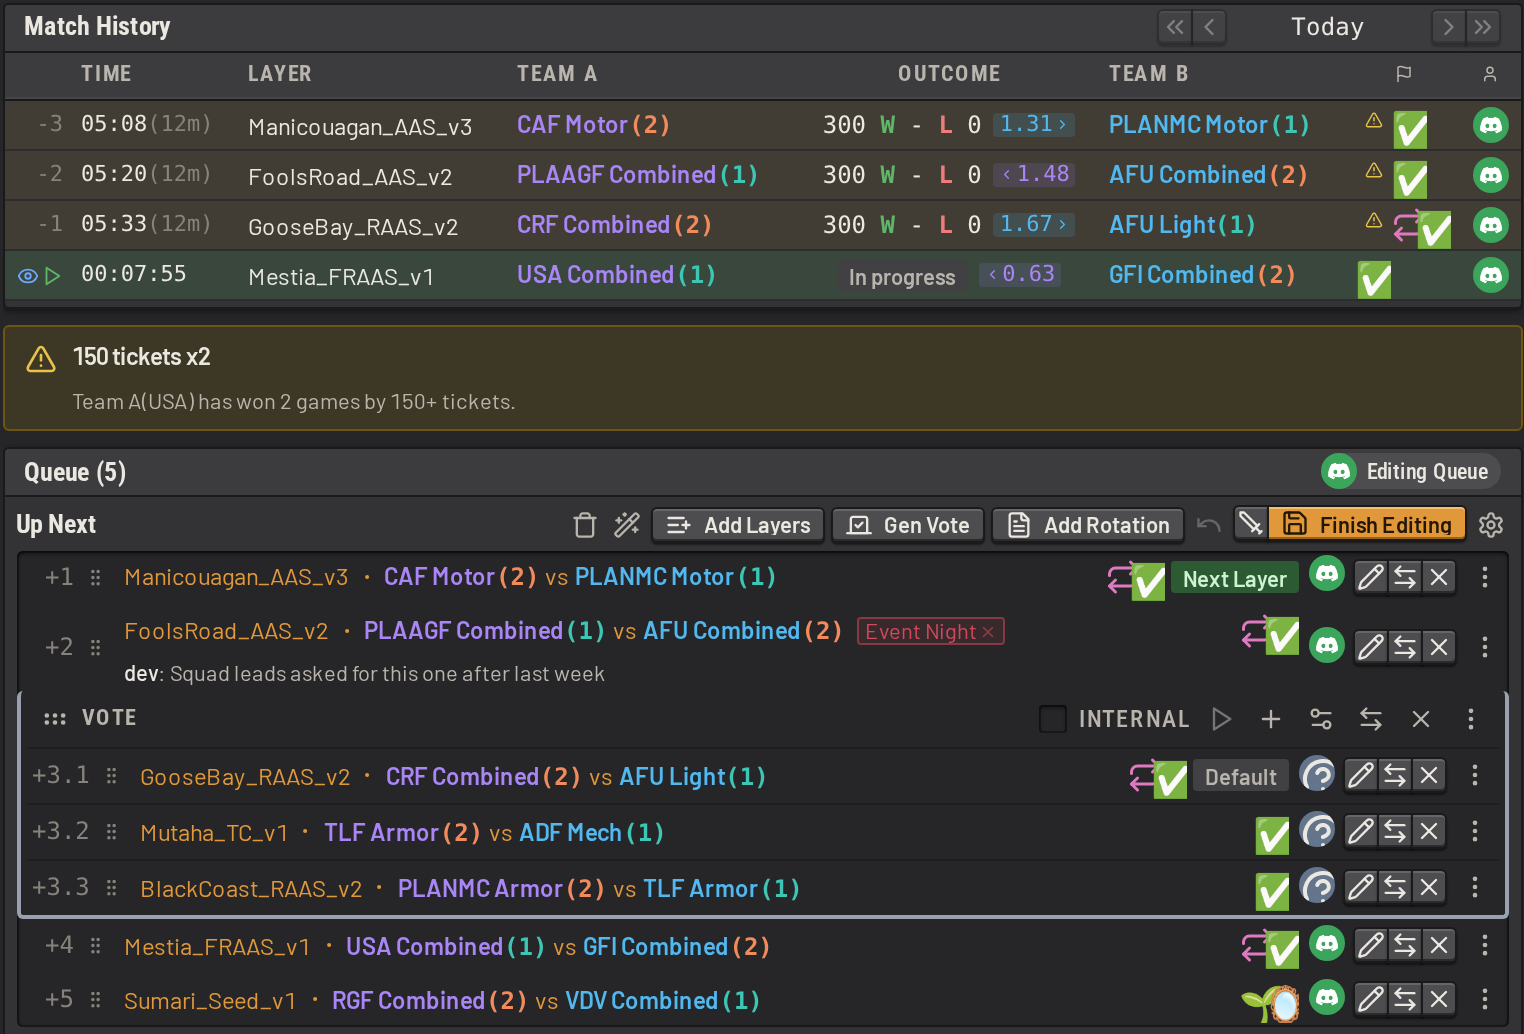
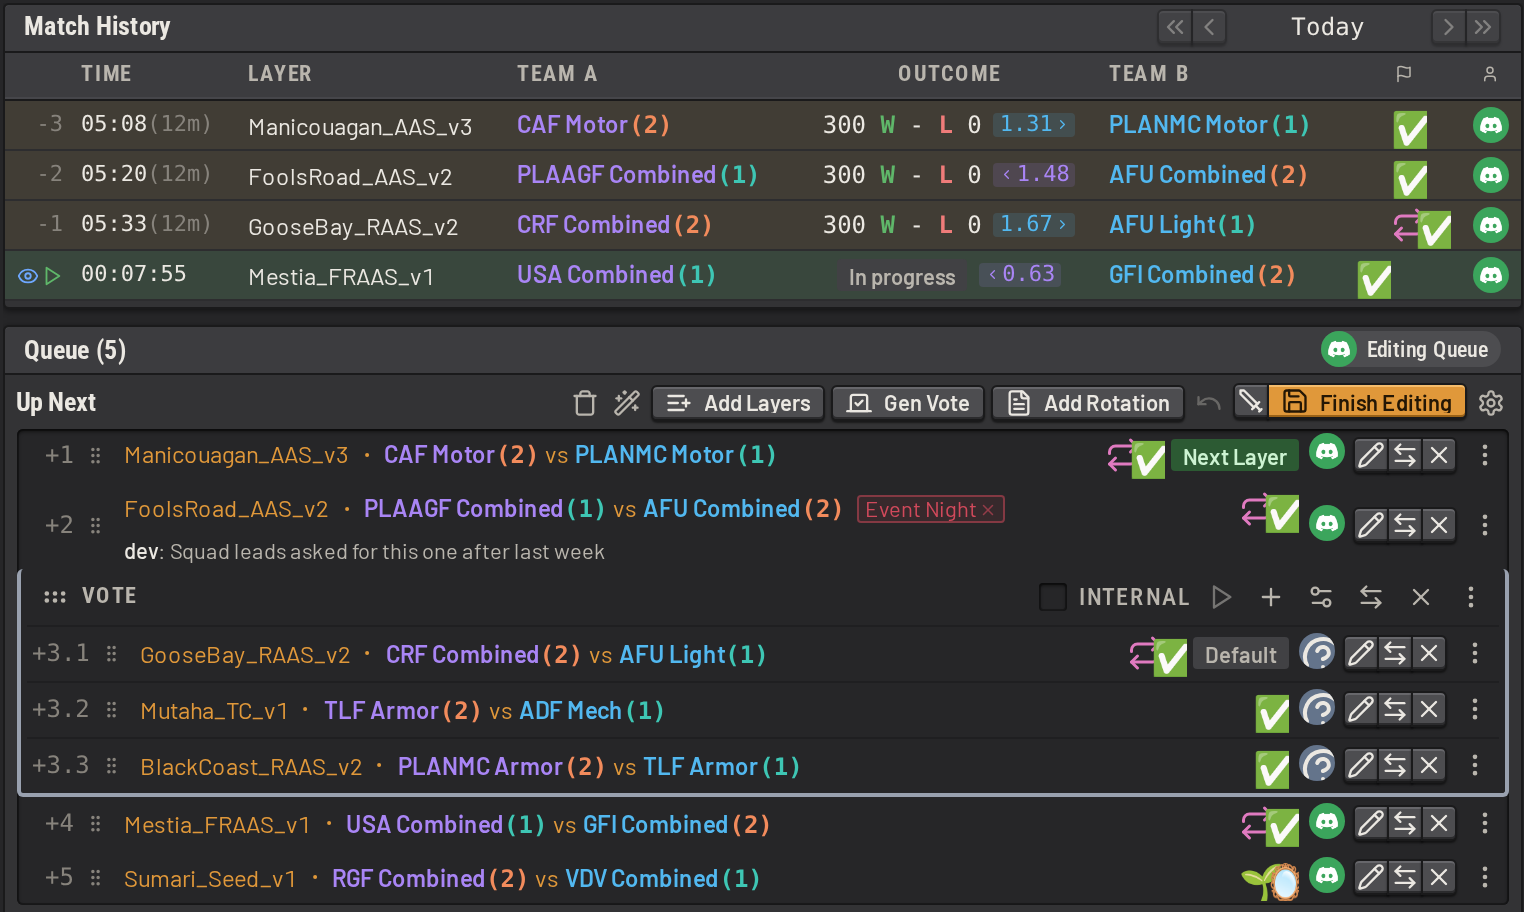
docs(readme): two screenshots and a pointer to the docs
The README's intro shrinks to one paragraph, followed by the queue and activity
feed screenshots and a link to the documentation. The video TODO is gone.

The activity feed shot is retaken shorter, with more kinds of event, including
vehicle and FOB radio events. The queue shot loses its balance trigger card and
flag icons, since balance triggers are no longer in the base plugins.

Changelog: none, README and docs images only.

diff --git a/README.md b/README.md
@@ -6,22 +6,14 @@ SLM is a tool for managing upcoming layers on a Squad server, and other things a
 
 **Discord: https://discord.gg/Th7g2nhpR/**
 
-It is the main admin tool of the TacTrig server, used for queueing layers, reading the current state of team balance,
-and running teamswaps. Admins also use it to issue warns, kicks and timeouts, and it integrates with BattleMetrics so
-admins can set player flags and open player profiles without leaving the app. Those flags can then be used to categorise
-players for team balance or monitoring.
+SLM is the main admin tool of the TacTrig server. Admins use it to queue layers, check team balance, run teamswaps,
+and warn, kick or time out players, from a web GUI or with in-game commands.
 
-Everything is available in two ways: through a web GUI that authenticates against your Discord server via OAuth, and
-through in-game commands.
+![the match history and the layer queue](docs/images/features/layer_queue_landing.png)
 
-Layer management is the primary focus of SLM. _Filters_ narrow the playable set with logical expressions, which
-makes it easier to find a layer to play. _Repeat rules_ catch common mistakes like queueing the same map or faction
-twice in a row.
+![the activity feed](docs/images/features/activity_feed.png)
 
-SLM ships with a layer scoring system written by community member Zero. It reduces a set of heuristics to one score
-per measured attribute. Each score indicates how fair a layer is likely to be.
-
-TODO Some screenshots here, also a video
+Read the [documentation](https://tactrigsds.github.io/squad-layer-manager/) to learn more.
 
 ## Try it
 
